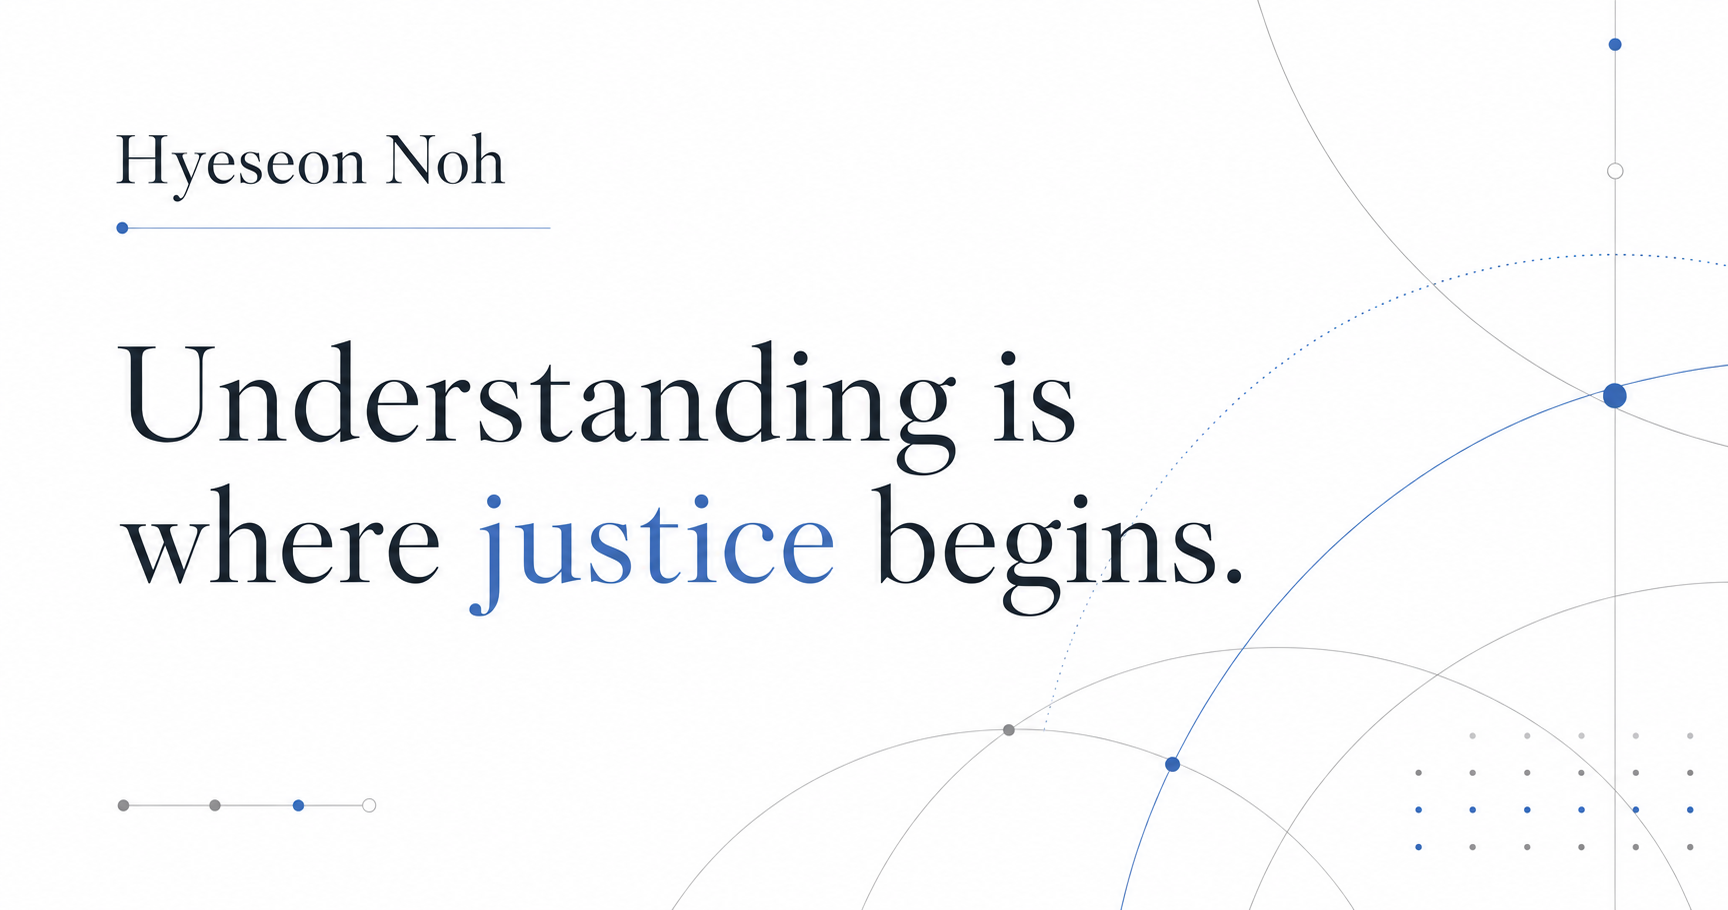
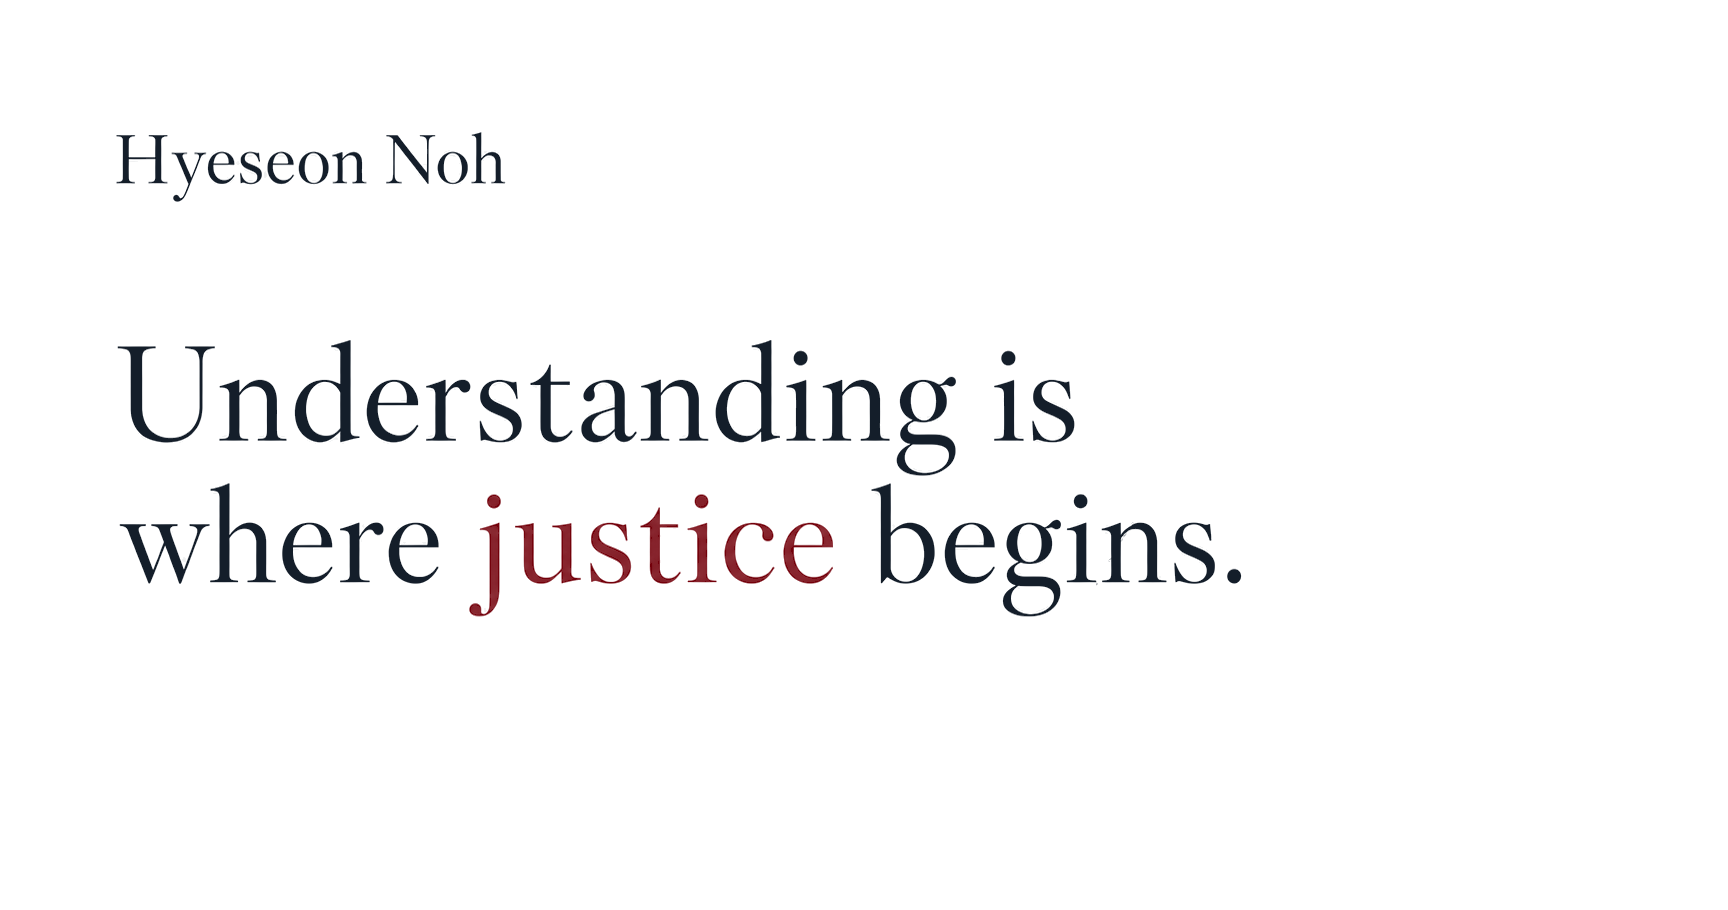
Simplify social preview to text only

diff --git a/app/lib/metadata.ts b/app/lib/metadata.ts
@@ -19,7 +19,7 @@ export async function buildPageMetadata(
   )
     .split(",")[0]
     .trim();
-  const imageUrl = `${protocol}://${host}/og-editorial.png?v=white-20260907`;
+  const imageUrl = `${protocol}://${host}/og-editorial.png?v=text-only-garnet-20260907`;
 
   return {
     title,
